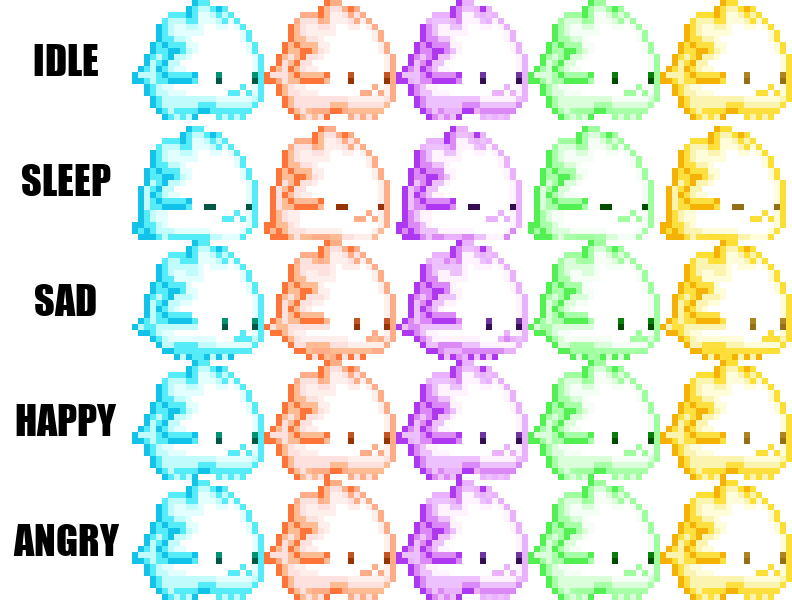
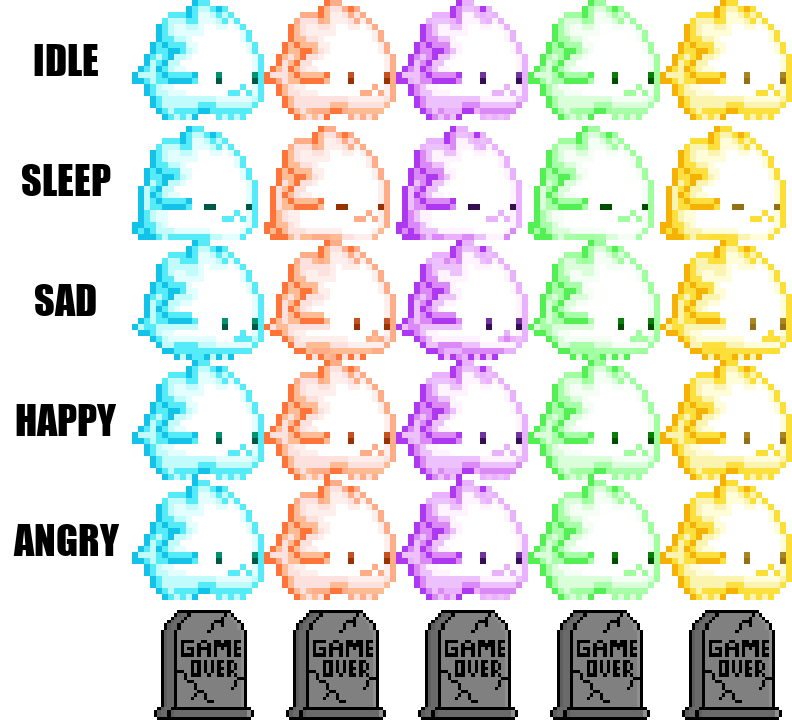
Mudanças na notificação do Kawaigotchi

diff --git a/src/main/java/com/kuuhaku/handlers/games/kawaigotchi/Kawaigotchi.java b/src/main/java/com/kuuhaku/handlers/games/kawaigotchi/Kawaigotchi.java
@@ -10,6 +10,7 @@ import net.dv8tion.jda.api.OnlineStatus;
 import net.dv8tion.jda.api.entities.Member;
 import net.dv8tion.jda.api.entities.TextChannel;
 import net.dv8tion.jda.api.requests.restaction.MessageAction;
+import org.jetbrains.annotations.NotNull;
 import org.json.JSONObject;
 
 import javax.imageio.ImageIO;
@@ -119,6 +120,8 @@ public class Kawaigotchi {
 		mood = Helper.clamp(mood, 0, 100);
 		energy = Helper.clamp(energy, 0, 100);
 
+		if (!alive) stance = Stance.DEAD;
+
 		if (health <= 0) {
 			alive = false;
 			KGotchiDAO.saveKawaigotchi(this);
@@ -197,19 +200,26 @@ public class Kawaigotchi {
 	}
 
 	public Action feed(Food food) {
-		if (stance.canEat()) {
-			try {
-				useFromBag(food);
-				hunger += food.getNutrition();
-				health += food.getHealthiness();
-				mood += food.getMoodBoost();
-				if (food.getType() == FoodType.SPECIAL) food.getSpecial().accept(this);
-				KGotchiDAO.saveKawaigotchi(this);
-				return Action.SUCCESS;
-			} catch (EmptyStockException e) {
-				return Action.FAILED;
-			}
+		if (food.getType() == FoodType.SPECIAL) {
+			return useFood(food);
+		} else if (stance.canEat()) {
+			return useFood(food);
 		} else return Action.UNABLE;
+	}
+
+	@NotNull
+	public Action useFood(Food food) {
+		try {
+			useFromBag(food);
+			hunger += food.getNutrition();
+			health += food.getHealthiness();
+			mood += food.getMoodBoost();
+			if (food.getType() == FoodType.SPECIAL) food.getSpecial().accept(this);
+			KGotchiDAO.saveKawaigotchi(this);
+			return Action.SUCCESS;
+		} catch (EmptyStockException e) {
+			return Action.FAILED;
+		}
 	}
 
 	public Action play() {

diff --git a/src/main/java/com/kuuhaku/handlers/games/kawaigotchi/enums/Stance.java b/src/main/java/com/kuuhaku/handlers/games/kawaigotchi/enums/Stance.java
@@ -22,7 +22,8 @@ public enum Stance {
 	SLEEPING(false, false, false, true),
 	HAPPY(true, true, true, false),
 	SAD(true, false, false, false),
-	ANGRY(true, false, true, false);
+	ANGRY(true, false, true, false),
+	DEAD(false, false, false, false);
 
 	private final boolean canEat;
 	private final boolean canPlay;
@@ -65,6 +66,8 @@ public enum Stance {
 				return "Triste";
 			case ANGRY:
 				return "Bravo";
+			case DEAD:
+				return "Morto";
 			default:
 				return null;
 		}

diff --git a/src/main/java/com/kuuhaku/handlers/games/kawaigotchi/enums/Race.java b/src/main/java/com/kuuhaku/handlers/games/kawaigotchi/enums/Race.java
@@ -52,6 +52,8 @@ public enum Race {
 				return bi.getSubimage(size[0] * var, size[1] * 3, size[0], size[1]);
 			case ANGRY:
 				return bi.getSubimage(size[0] * var, size[1] * 4, size[0], size[1]);
+			case DEAD:
+				return bi.getSubimage(size[0] * var, size[1] * 5, size[0], size[1]);
 			default:
 				throw new RuntimeException();
 		}
